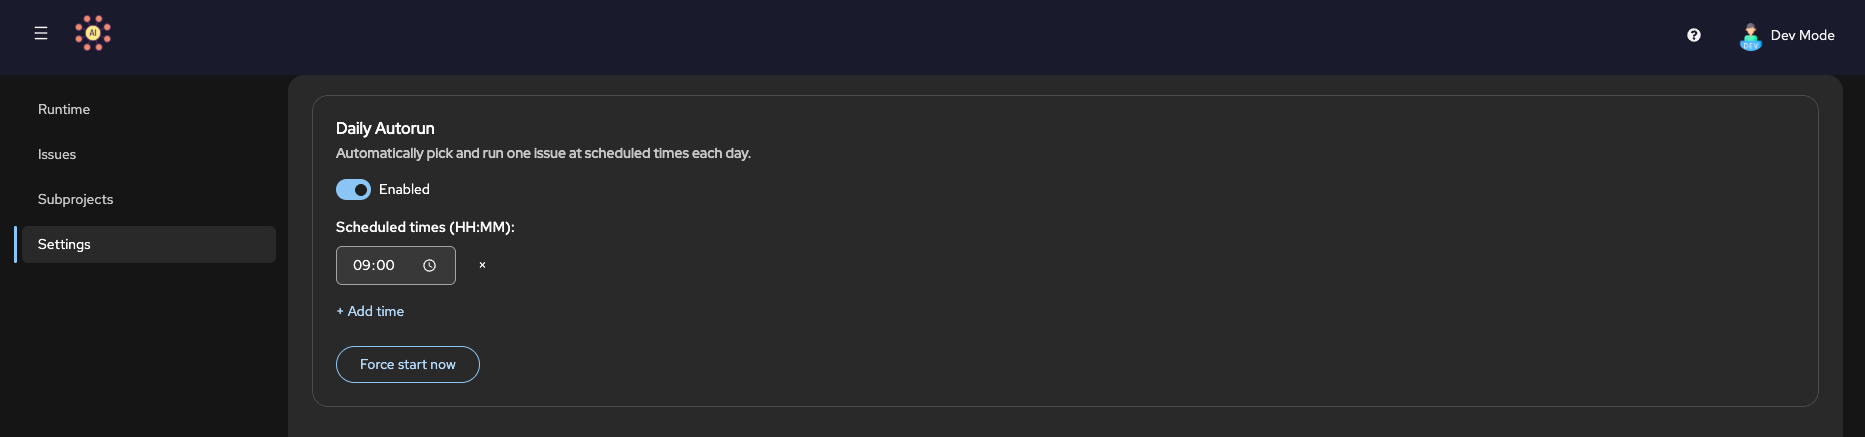
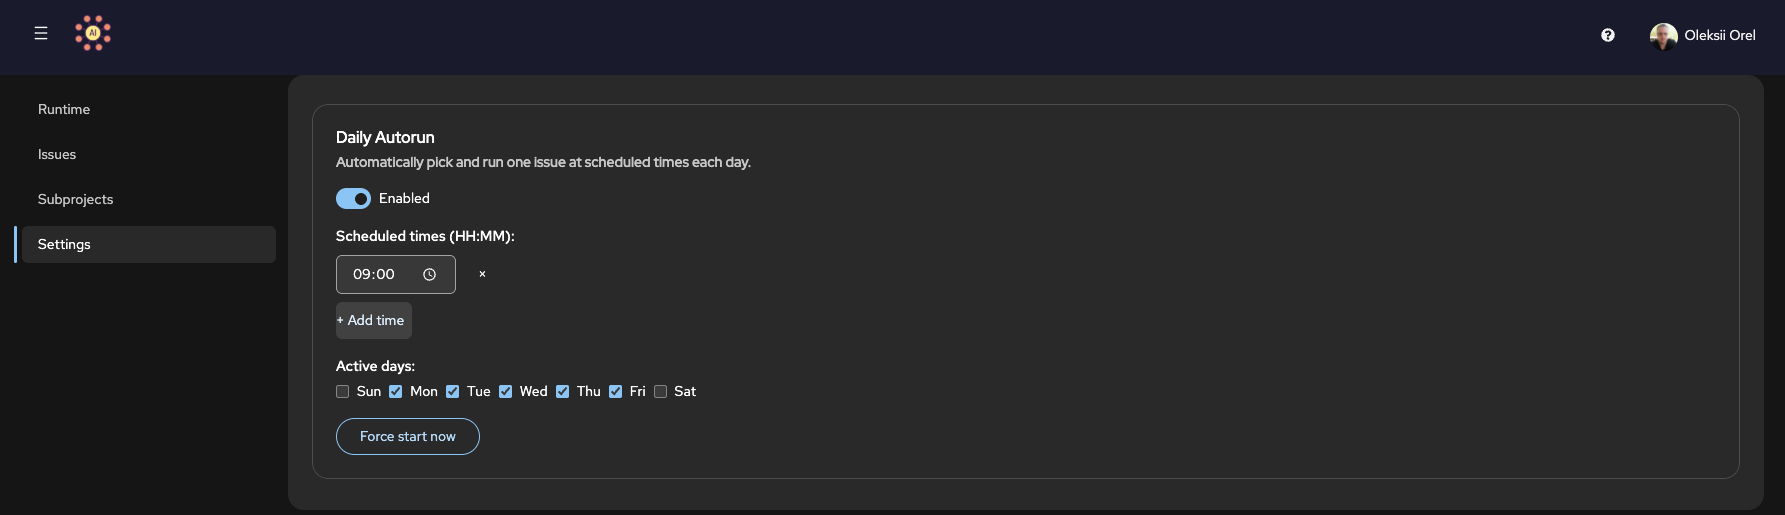
feat(settings): add day-of-week selection to autorun; remove Knowledge Sources
Add active-days checkboxes (Mon–Fri default) to the Daily Autorun
widget. The scheduler skips runs on unchecked days. Remove the
Knowledge Sources panel and its API functions.

Assisted-by: Claude Opus 4.6

diff --git a/packages/agent-frontend/src/pages/Settings.tsx b/packages/agent-frontend/src/pages/Settings.tsx
@@ -14,13 +14,9 @@ import React, { useCallback, useEffect, useState } from 'react';
 import {
   Button,
   Card,
+  Checkbox,
   CardBody,
   CardTitle,
-  DataList,
-  DataListCell,
-  DataListItem,
-  DataListItemCells,
-  DataListItemRow,
   Divider,
   Dropdown,
   DropdownItem,
@@ -34,7 +30,6 @@ import {
   FlexItem,
   Form,
   FormGroup,
-  FormGroupLabelHelp,
   Label,
   MenuToggle,
   Modal,
@@ -58,13 +53,9 @@ import { useAlerts } from '../contexts/AlertContext.js';
 import {
   AppSettings,
   LLMProvider,
-  SamplePack,
   deleteProvider,
-  exportKnowledge,
   getProviders,
   getSettings,
-  getSamplePacks,
-  loadSamplePack,
   ProviderHealthResult,
   saveSettings,
   testAllProviders,
@@ -975,124 +966,6 @@ function AIProviders({
   );
 }
 
-// ── Knowledge Sources ──────────────────────────────────────────────────────
-
-function KnowledgeSources() {
-  const [samples, setSamples] = useState<SamplePack[]>([]);
-  const [loading, setLoading] = useState(true);
-  const [importing, setImporting] = useState<string | null>(null);
-  const { addAlert } = useAlerts();
-
-  useEffect(() => {
-    getSamplePacks()
-      .then(setSamples)
-      .catch(() => {})
-      .finally(() => setLoading(false));
-  }, []);
-
-  const handleLoad = async (name: string) => {
-    setImporting(name);
-    try {
-      const r = await loadSamplePack(name);
-      addAlert('success', `Loaded '${r.sample}': ${r.imported} files, ${r.projects} projects`);
-    } catch (e) {
-      addAlert('danger', e instanceof Error ? e.message : String(e));
-    } finally {
-      setImporting(null);
-    }
-  };
-
-  return (
-    <PageSection>
-      <Card>
-        <CardTitle>
-          Knowledge Sources
-          <p style={WIDGET_DESC}>
-            Project knowledge packs from <code>pg_seed/</code> — load them into the database so the
-            agent can read project context and skills.
-          </p>
-        </CardTitle>
-        <CardBody>
-          {loading ? (
-            <Spinner size="sm" aria-label="Loading samples" />
-          ) : samples.length === 0 ? (
-            <EmptyState
-              variant={EmptyStateVariant.sm}
-              icon={CubesIcon}
-              titleText="No knowledge packs"
-            >
-              <EmptyStateBody>
-                <Popover bodyContent="No directories found in pg_seed/. Create one like pg_seed/my-project/ with subprojects/, context/, and shared/ subdirectories, then restart the server.">
-                  <FormGroupLabelHelp aria-label="More info" />
-                </Popover>
-              </EmptyStateBody>
-            </EmptyState>
-          ) : (
-            <DataList aria-label="Sample packs" isCompact>
-              {samples.map(s => (
-                <DataListItem key={s.name} aria-labelledby={`sample-${s.name}`}>
-                  <DataListItemRow>
-                    <DataListItemCells
-                      dataListCells={[
-                        <DataListCell key="name" width={2} id={`sample-${s.name}`}>
-                          <strong>{s.name}</strong>
-                          <div style={{ marginTop: '4px' }}>
-                            {s.hasSubprojects && (
-                              <Label isCompact style={{ marginRight: '4px' }}>
-                                subprojects
-                              </Label>
-                            )}
-                            {s.hasContext && (
-                              <Label isCompact style={{ marginRight: '4px' }}>
-                                context
-                              </Label>
-                            )}
-                            {s.hasShared && <Label isCompact>shared</Label>}
-                          </div>
-                        </DataListCell>,
-                        <DataListCell key="subdirs" width={3}>
-                          <span
-                            style={{
-                              fontSize: '0.85rem',
-                              color: 'var(--pf-t--global--text--color--subtle)',
-                            }}
-                          >
-                            {s.subdirs.join(' · ')}
-                          </span>
-                        </DataListCell>,
-                        <DataListCell key="action" width={2} alignRight>
-                          <Button
-                            variant="primary"
-                            size="sm"
-                            isDisabled={importing !== null}
-                            onClick={() => handleLoad(s.name)}
-                          >
-                            {importing === s.name ? (
-                              <>
-                                <Spinner size="sm" aria-label="Loading" /> Loading…
-                              </>
-                            ) : (
-                              '↓ Load into DB'
-                            )}
-                          </Button>
-                        </DataListCell>,
-                      ]}
-                    />
-                  </DataListItemRow>
-                </DataListItem>
-              ))}
-            </DataList>
-          )}
-
-          <Divider style={{ margin: '12px 0 8px' }} />
-          <Button variant="link" size="sm" onClick={exportKnowledge}>
-            Export to JSON
-          </Button>
-        </CardBody>
-      </Card>
-    </PageSection>
-  );
-}
 
 // ── Main Settings page ─────────────────────────────────────────────────────
 
@@ -1114,10 +987,20 @@ function AutorunWidget({
         .map(t => t.trim())
         .filter(Boolean)
     : [];
+  const days = (settings.autorunDays || '1,2,3,4,5')
+    .split(',')
+    .map(d => parseInt(d.trim(), 10))
+    .filter(d => !isNaN(d));
+  const dayLabels = ['Sun', 'Mon', 'Tue', 'Wed', 'Thu', 'Fri', 'Sat'] as const;
   const [starting, setStarting] = React.useState(false);
 
   function setTimes(newTimes: string[]) {
     set({ autorunTimes: newTimes.join(',') });
+  }
+
+  function toggleDay(day: number) {
+    const next = days.includes(day) ? days.filter(d => d !== day) : [...days, day].sort();
+    set({ autorunDays: next.join(',') });
   }
 
   function addTime() {
@@ -1210,6 +1093,27 @@ function AutorunWidget({
               </FlexItem>
             )}
 
+            {/* Days of week */}
+            {enabled && (
+              <FlexItem>
+                <span style={{ fontWeight: 500, fontSize: '0.9rem', marginBottom: '4px', display: 'block' }}>
+                  Active days:
+                </span>
+                <Flex gap={{ default: 'gapSm' }}>
+                  {dayLabels.map((label, idx) => (
+                    <FlexItem key={idx}>
+                      <Checkbox
+                        id={`autorun-day-${idx}`}
+                        label={label}
+                        isChecked={days.includes(idx)}
+                        onChange={() => toggleDay(idx)}
+                      />
+                    </FlexItem>
+                  ))}
+                </Flex>
+              </FlexItem>
+            )}
+
             {/* Force start */}
             <FlexItem>
               <Button
@@ -1242,6 +1146,7 @@ const DEFAULT_SETTINGS: AppSettings = {
   outputDir: 'output',
   autorunEnabled: 'false',
   autorunTimes: '',
+  autorunDays: '1,2,3,4,5',
 };
 
 export default function Settings() {
@@ -1490,7 +1395,6 @@ export default function Settings() {
         </Flex>
       </PageSection>
 
-      <KnowledgeSources />
     </>
   );
 }

diff --git a/packages/agent-frontend/src/api/client.ts b/packages/agent-frontend/src/api/client.ts
@@ -288,32 +288,10 @@ export interface AppSettings {
   outputDir: string;
   autorunEnabled: string; // 'true' | 'false'
   autorunTimes: string; // comma-separated HH:MM list e.g. "09:00,14:00"
+  autorunDays: string; // comma-separated day numbers 0-6 (0=Sun) e.g. "1,2,3,4,5"
   [key: string]: string;
-}
-
-export interface SamplePack {
-  name: string;
-  subdirs: string[];
-  hasSubprojects: boolean;
-  hasContext: boolean;
-  hasShared: boolean;
-}
-
-export interface LoadResult {
-  ok: boolean;
-  sample: string;
-  path: string;
-  imported: number;
-  projects: number;
-  sources: number;
 }
 
 export const getSettings = () => apiFetch<AppSettings>('/settings');
 export const saveSettings = (body: Partial<AppSettings>) =>
   apiFetch<{ ok: boolean }>('/settings', { method: 'PUT', body: JSON.stringify(body) });
-export const getSamplePacks = () => apiFetch<SamplePack[]>('/settings/samples');
-export const loadSamplePack = (name: string) =>
-  apiFetch<LoadResult>(`/settings/samples/${name}/load`, { method: 'POST' });
-export const exportKnowledge = () => {
-  window.open('/api/settings/export', '_blank');
-};

diff --git a/packages/agent-backend/src/scheduler/autorun.ts b/packages/agent-backend/src/scheduler/autorun.ts
@@ -121,6 +121,10 @@ export function startAutorunScheduler(): void {
       if (hhmm === lastTriggeredAt) return;
       if (!times.includes(hhmm)) return;
 
+      const daysStr = await getSetting('autorunDays', '1,2,3,4,5');
+      const activeDays = daysStr.split(',').map(d => parseInt(d.trim(), 10)).filter(d => !isNaN(d));
+      if (!activeDays.includes(now.getDay())) return;
+
       lastTriggeredAt = hhmm;
       console.log(`[autorun] Scheduled trigger at ${hhmm}`);
       await triggerAutorun();
